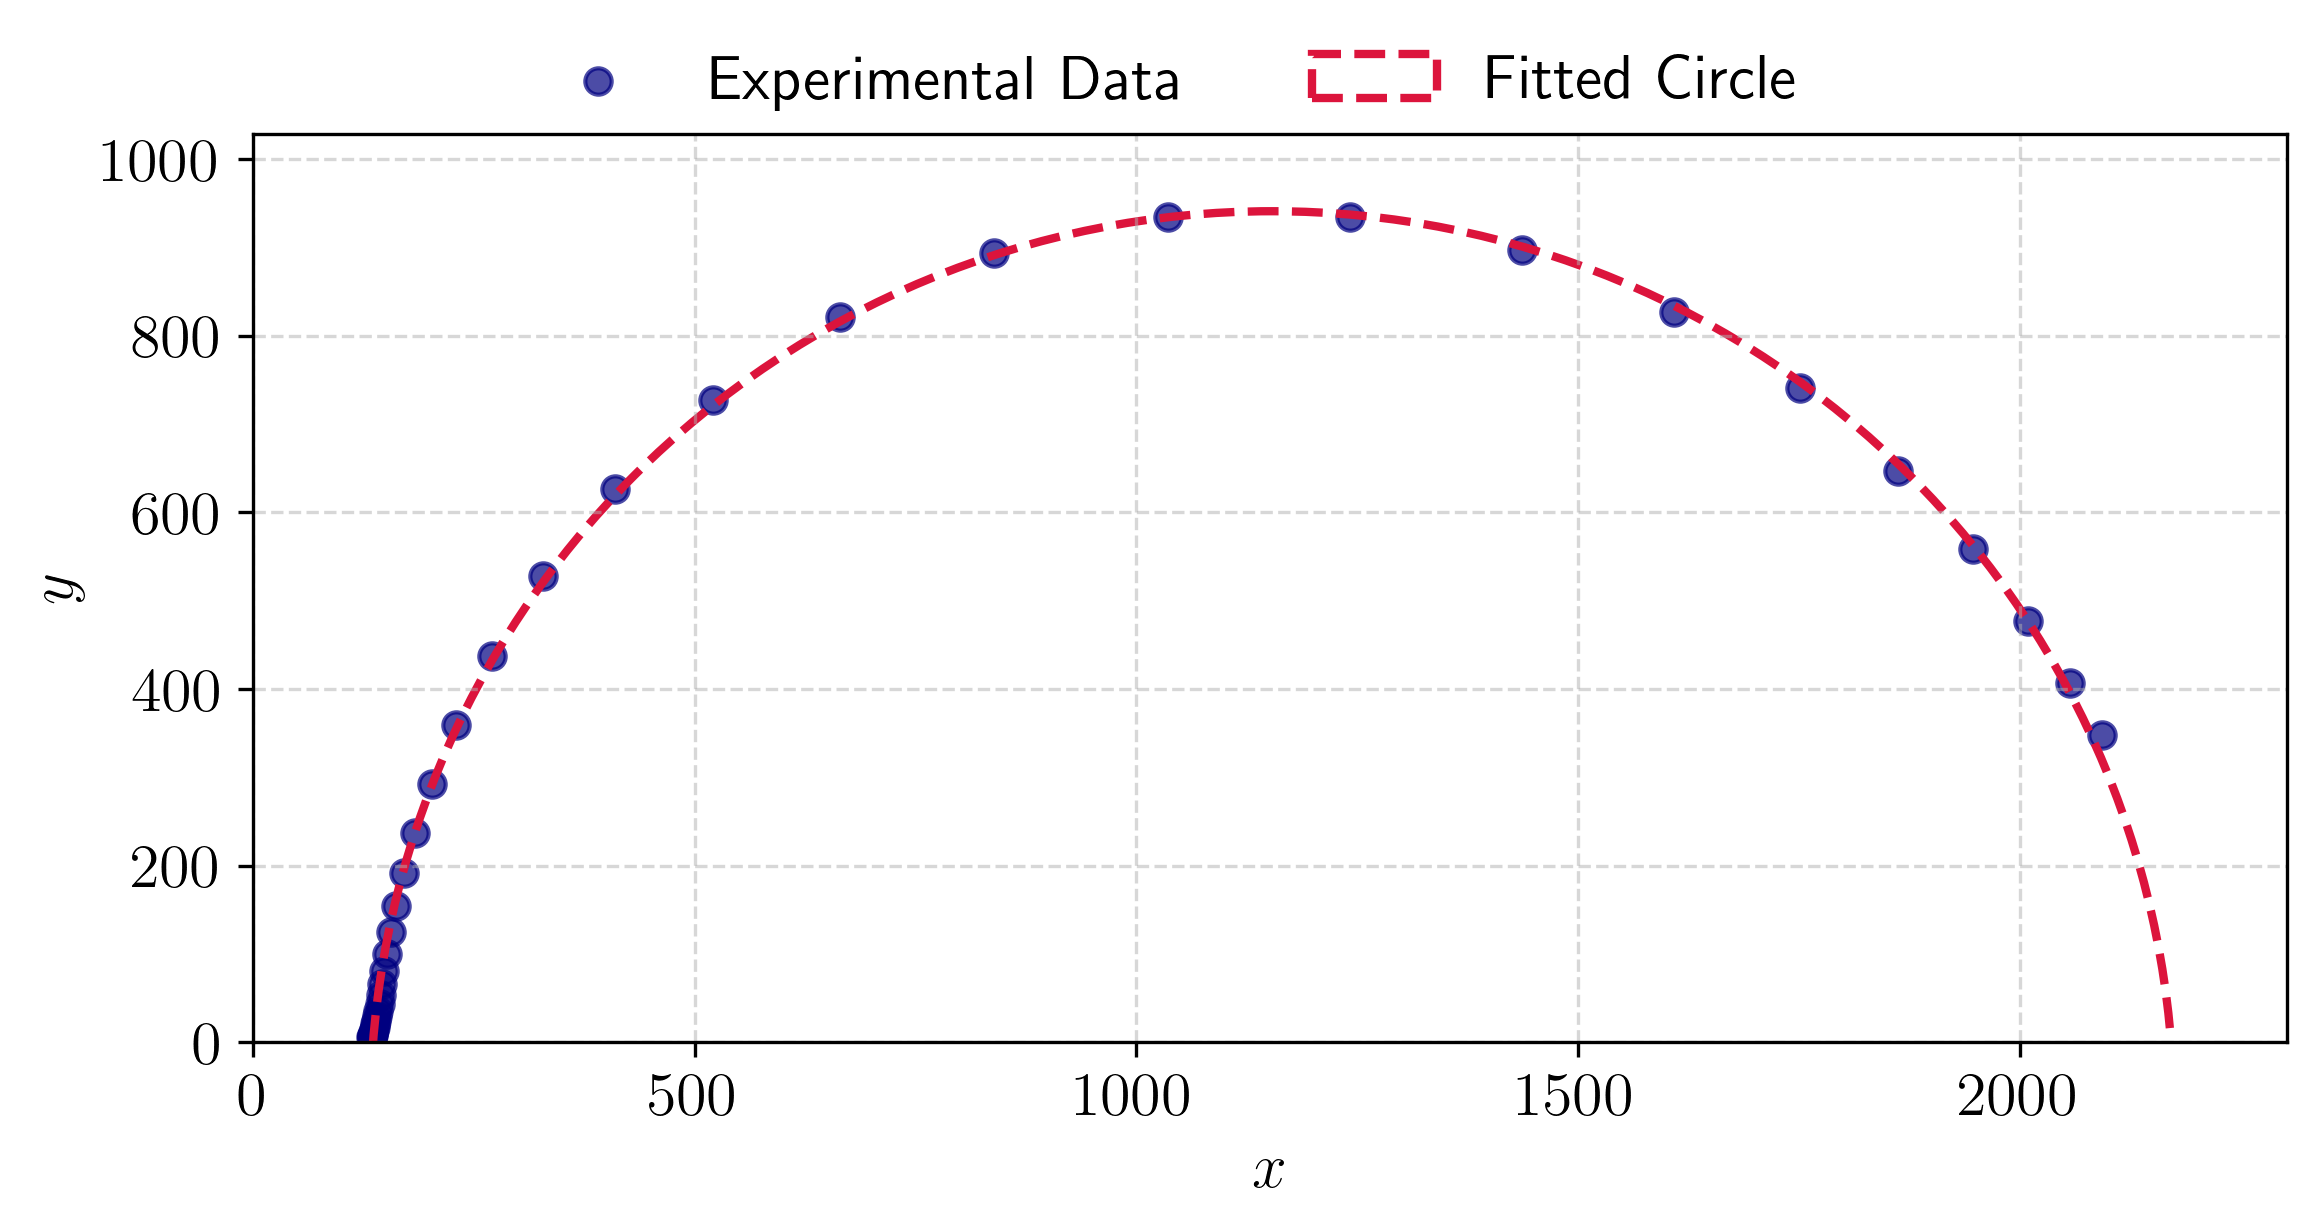
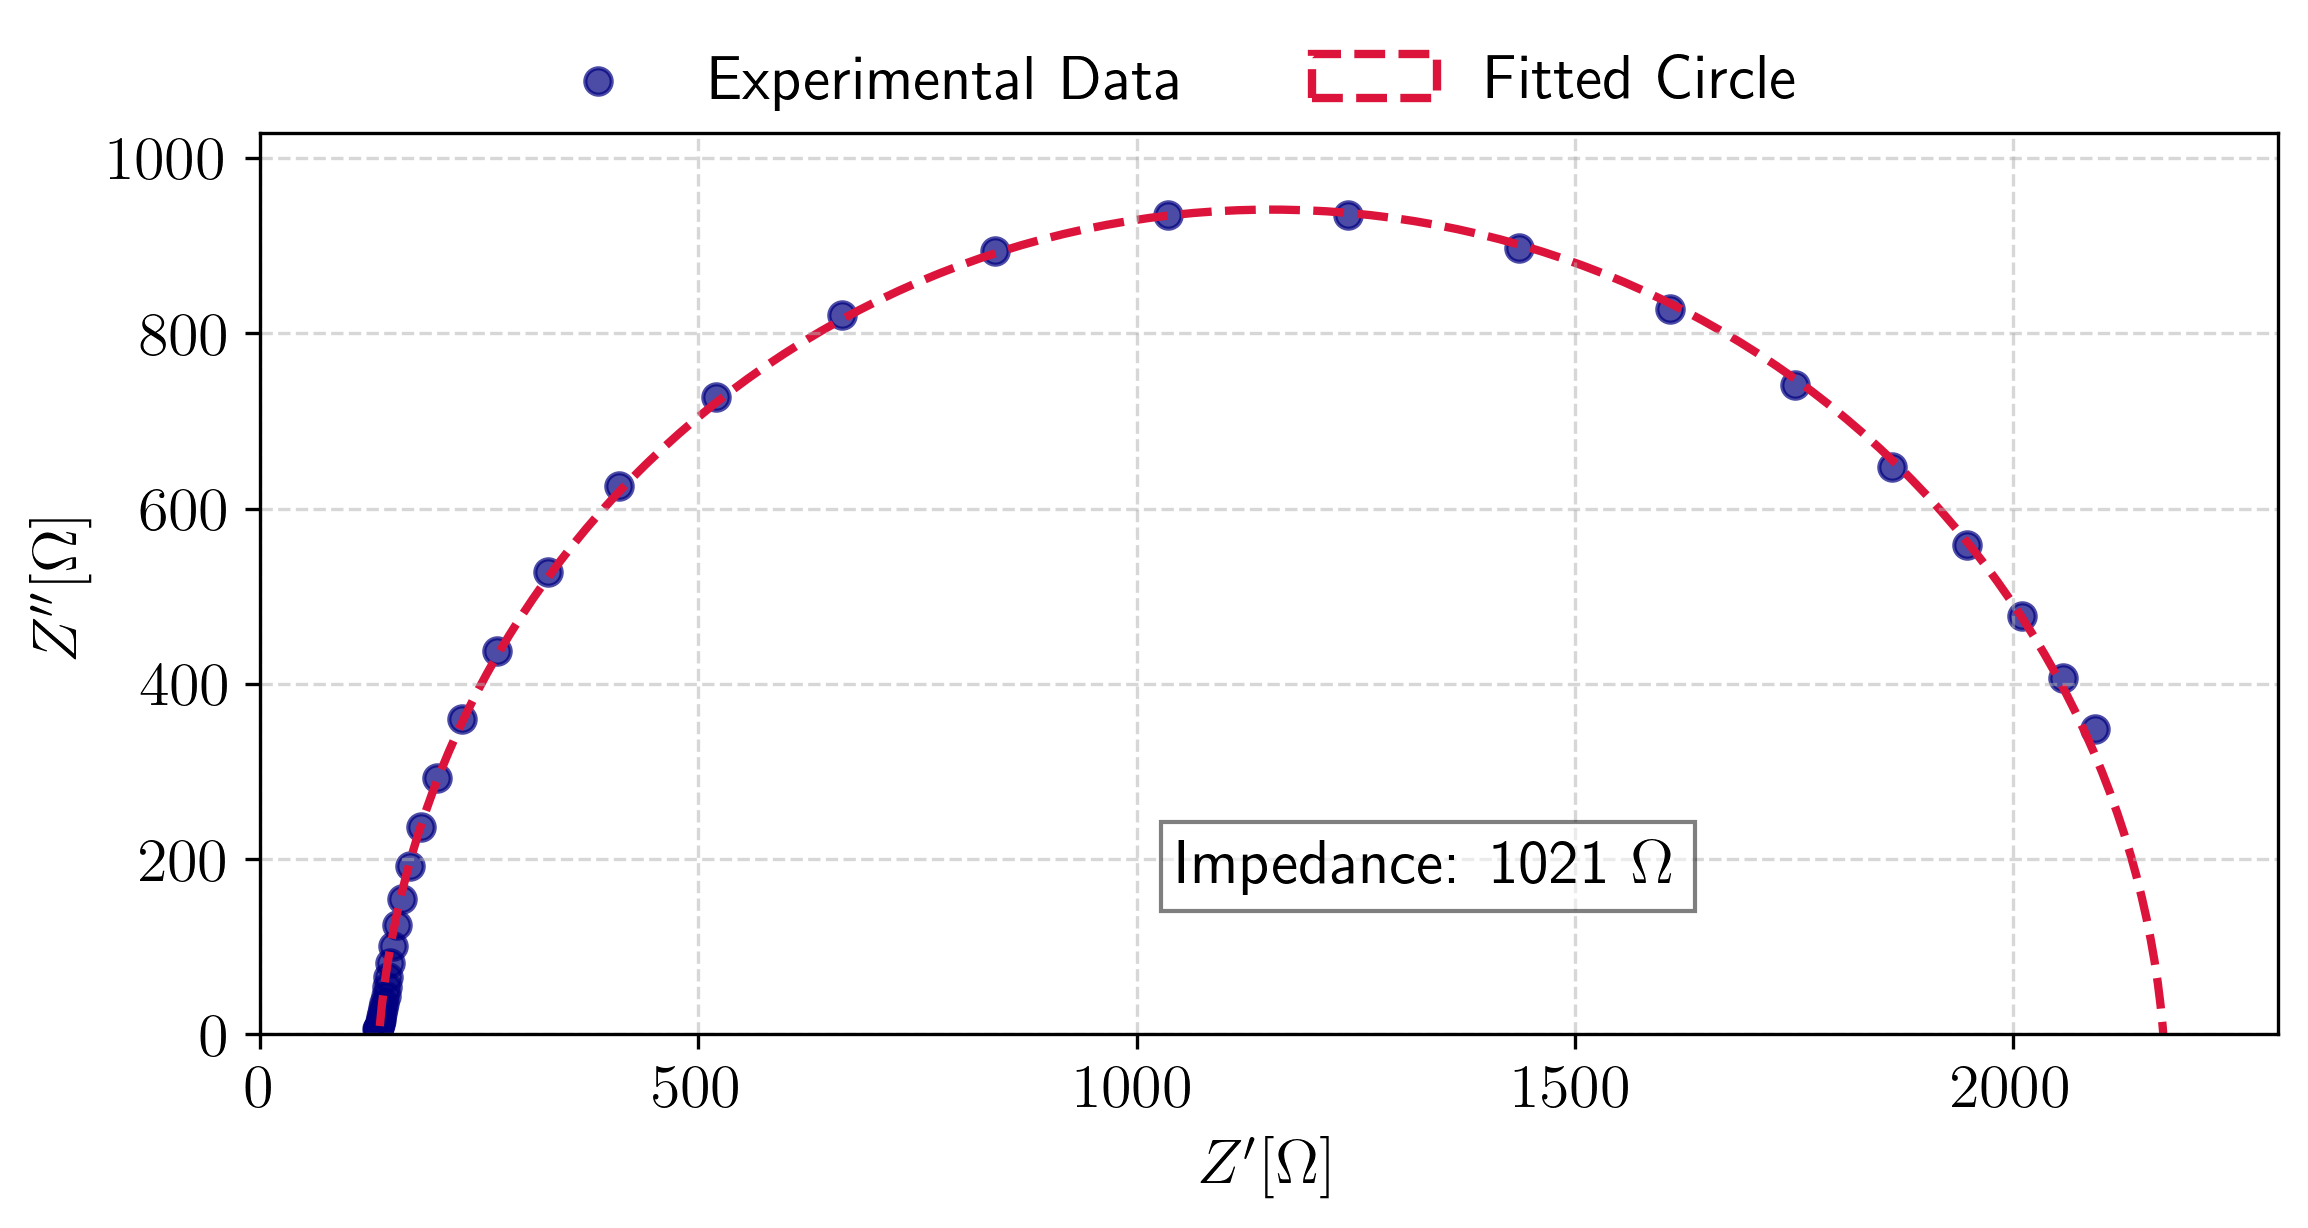
Added impedance label to graph and changed axis labels

diff --git a/impedance_extractor.py b/impedance_extractor.py
@@ -92,8 +92,9 @@ def get_result_graph(result, x_data, y_data):
     ax.add_patch(circle)
 
     # Set labels and axis limits
-    ax.set_xlabel(r"$x$")
-    ax.set_ylabel(r"$y$")
+    ax.text(x_data.iloc[-1]/2, y_data.iloc[-1]/2, f'Impedance: {R_opt:.0f} $\Omega$',bbox=dict(facecolor='white', alpha=0.5))
+    ax.set_xlabel(r"$Z'  [\Omega]$")
+    ax.set_ylabel(r"$Z'' [\Omega]$")
     ax.legend(loc='upper center', bbox_to_anchor=(0.45, 1.15), ncol=5, frameon=False)  
 
     # Set axis limits with a slight buffer
